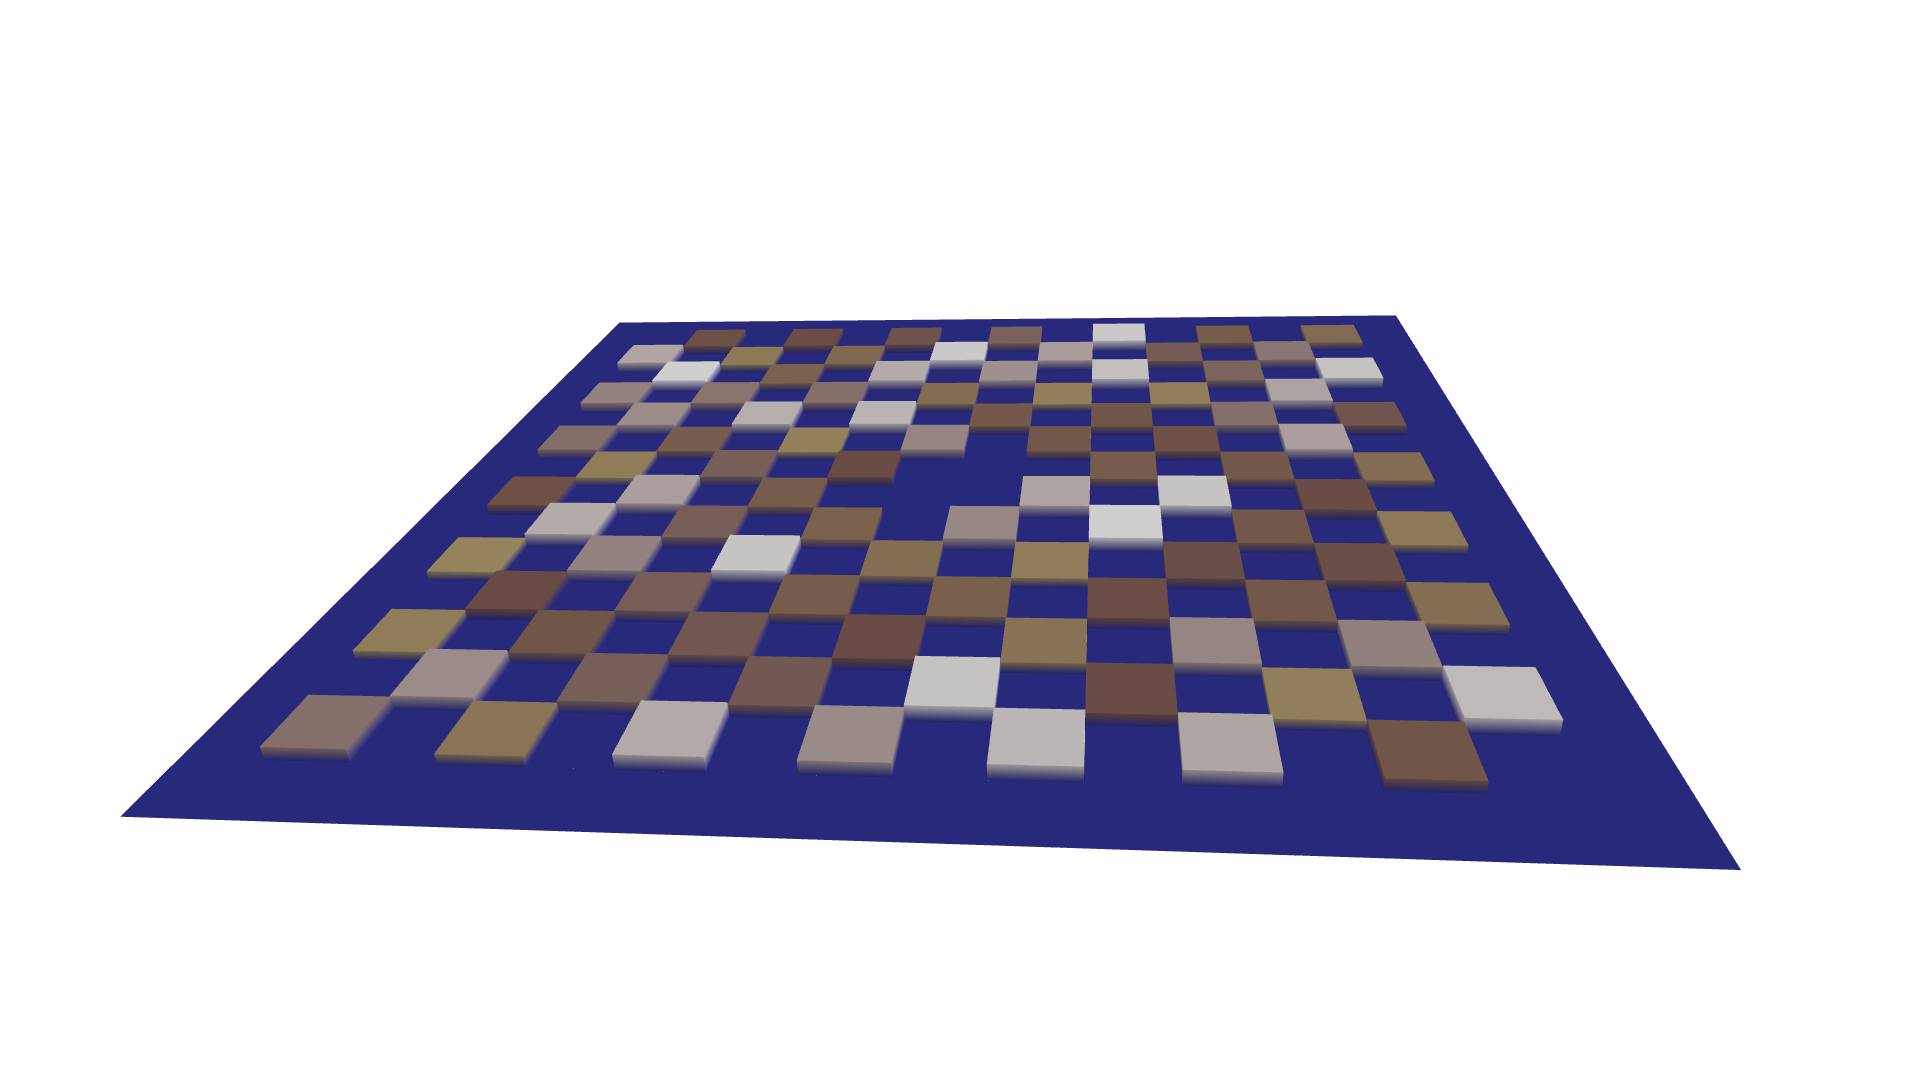
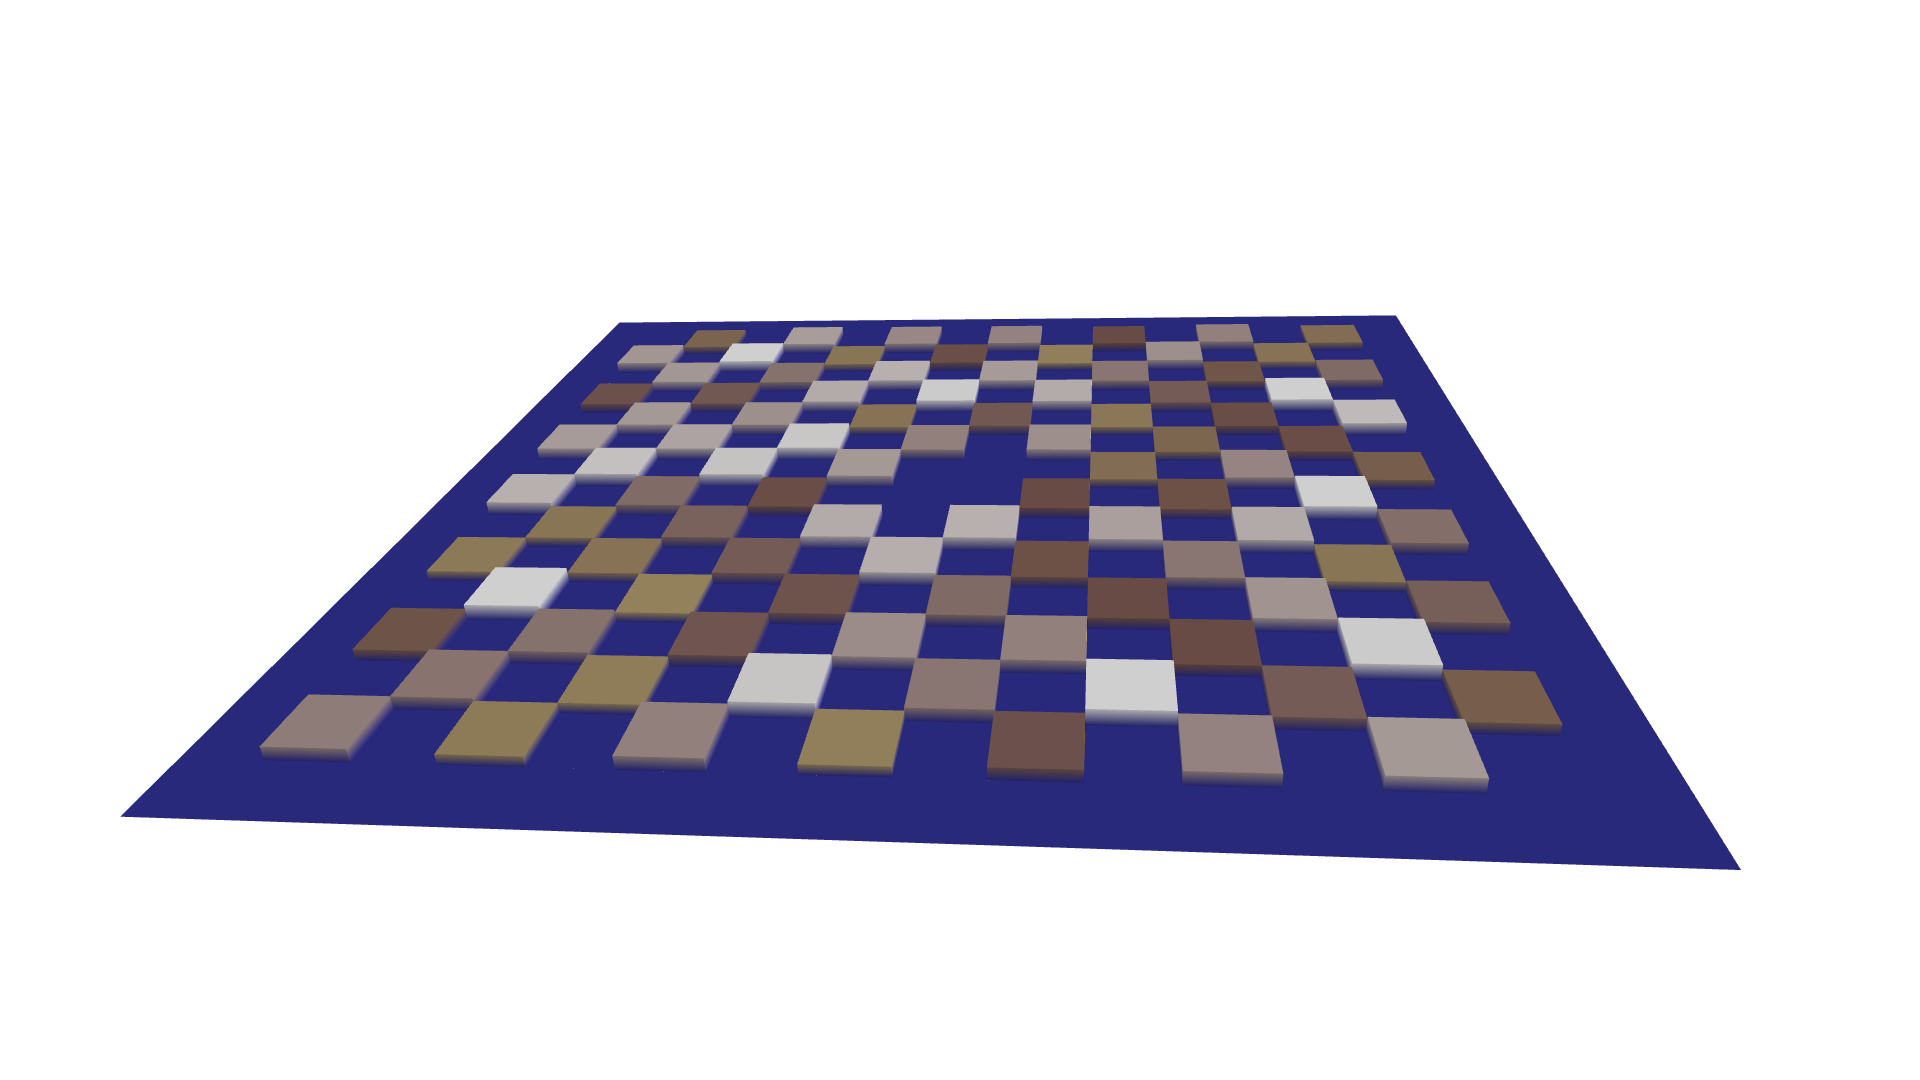
Add tilted squares terrain

Changed region(s): [[0.1875, 0.275, 0.8125, 0.7333]]

diff --git a/generators/utils.py b/generators/utils.py
@@ -170,6 +170,52 @@ def create_square_block(center, width=0.3, height=0.0, block_height=0.08, yaw=0)
     return create_block(center, width, width, height, block_height, yaw)
 
 
+def create_block_tilted_top(
+    center, length=1.0, width=0.3, height=0.0, block_height=0.08, yaw=0, noise=0.02
+):
+    """
+    Generate a block mesh centered at a given point with a given orientation.
+
+    Parameters:
+    - center (tuple/list of float): Center point (x, y) of the block.
+    - length (float): Size of the block along the first axis.
+    - width (float): Size of the block along the second axis.
+    - height (float): Base height of the block.
+    - block_height (float): Additional height for the top vertices of the block.
+    - yaw (float): Orientation in yaw.
+    - noise (float): Noise to disturb the top surface with.
+
+    Returns:
+    - trimesh.Trimesh: Mesh object representing the block.
+    """
+
+    mesh_top = create_plane(center, length, width, height + block_height)
+    mesh_side = create_wall(center, length, width, height, block_height)
+    mesh = trimesh.util.concatenate([mesh_top, mesh_side])
+
+    # Moving up and down the vertices of the top of the block to create the tilting
+    A = mesh.vertices[:, 2] == height + block_height  # Selecting the top vertices
+    B = mesh.vertices[:, 0] == (
+        center[0] + length / 2
+    )  # Selecting the vertices on positive X
+    C = mesh.vertices[:, 1] == (
+        center[1] + width / 2
+    )  # Selecting the vertices on positive Y
+    nXY = (2 * np.random.random(2) - 1) * noise  # Tilting magnitude along X and Y
+    mesh.vertices[A * B, 2] += nXY[0]
+    mesh.vertices[A * ~B, 2] -= nXY[0]
+    mesh.vertices[A * C, 2] += nXY[1]
+    mesh.vertices[A * ~C, 2] -= nXY[1]
+
+    if yaw != 0:
+        rot_matrix = trimesh.transformations.rotation_matrix(
+            yaw, [0, 0, 1], [center[0], center[1], 0]
+        )
+        mesh.apply_transform(rot_matrix)
+
+    return mesh
+
+
 def create_square_plane_with_hole(center, outer_size, inner_size, height):
     """
     Generate a square plane with a square hole.

diff --git a/generators/terrain_tilted_squares.py b/generators/terrain_tilted_squares.py
@@ -1,0 +1,69 @@
+import numpy as np
+import trimesh
+from .utils import (
+    create_square_plane,
+    create_square_plane_with_hole,
+    create_block_tilted_top,
+)
+
+
+def generate_tilted_squares_terrain(
+    terrain_size=8.0,
+    block_size=0.5,
+    block_height=0.08,
+    platform_size=1.0,
+    noise=0.04,
+):
+    """
+    Generate a mesh for a pyramid stairs terrain.
+
+    Parameters:
+    - terrain_size (float): Size of the terrain.
+    - block_size (float): Size of the checker blocks.
+    - block_height (float): Height of the checker blocks.
+    - platform_size (float): Size of the central platform.
+    - noise (float): Random noise applied to the block heights.
+
+    Returns:
+    - trimesh.Trimesh: Mesh object representing the checkers terrain.
+    """
+
+    N = int(terrain_size / block_size)
+    center = [terrain_size / 2, terrain_size / 2]
+
+    # Flat border area around the checkers
+    border_mesh = create_square_plane_with_hole(
+        center, terrain_size, terrain_size - 2 * block_size, 0.0
+    )
+
+    tilted_meshes = []
+    for i in range(1, N - 1):
+        x = (i + 0.5) * block_size
+        for j in range(1, N - 1):
+            y = (j + 0.5) * block_size
+            if np.all(np.abs(np.array([x, y]) - np.array(center)) < platform_size / 2):
+                tilted_meshes.append(create_square_plane([x, y], block_size, 0.0))
+
+            else:
+                tilted_meshes.append(
+                    create_block_tilted_top(
+                        [x, y], block_size, block_size, 0.0, block_height, 0.0, noise
+                    )
+                )
+
+    tilted_meshes.append(border_mesh)
+    return trimesh.util.concatenate(tilted_meshes)
+
+
+if __name__ == "__main__":
+    # Usage:
+    mesh = generate_tilted_squares_terrain()
+
+    # Display mesh with colormap along the Z axis
+    mesh.visual.vertex_colors = trimesh.visual.interpolate(
+        mesh.vertices[:, 2], color_map="viridis"
+    )
+    trimesh.Scene(mesh).show()
+
+    # Export mesh as .obj file
+    # mesh.export(file_obj='terrain.obj', file_type='obj')

diff --git a/generators/terrain_generators.py b/generators/terrain_generators.py
@@ -3,6 +3,7 @@ from generators.terrain_stairs import generate_pyramid_stairs_terrain
 from generators.terrain_blocks import generate_block_terrain
 from generators.terrain_slope import generate_slope_terrain
 from generators.terrain_checkers import generate_checkers_terrain
+from generators.terrain_tilted_squares import generate_tilted_squares_terrain
 import numpy as np
 import trimesh
 
@@ -238,6 +239,37 @@ def checkers(difficulty):
         info["block_height"] * difficulty,
         info["platform_size"],
         info["noise"],
+    )
+
+    return mesh, info
+
+
+def tilted_squares(difficulty):
+    """
+    Generates a 3D terrain mesh with a filed a square blocks with tilted top.
+
+    Parameters:
+    - difficulty (float): Difficulty scaling between 0 (easiest) and 1 (hardest).
+
+    Returns:
+    - A trimesh.Trimesh object representing the generated terrain mesh.
+    - A dict containing the parameters of the terrain generator.
+    """
+
+    info = {}
+    info["name"] = "tilted_squares"
+    info["terrain_size"] = 8.0
+    info["block_size"] = 0.5
+    info["block_height"] = 0.08
+    info["platform_size"] = 1.0
+    info["noise"] = 0.04
+
+    mesh = generate_tilted_squares_terrain(
+        info["terrain_size"],
+        info["block_size"],
+        info["block_height"] * difficulty,
+        info["platform_size"],
+        info["noise"] * difficulty,
     )
 
     return mesh, info

diff --git a/generate_preview_images.py b/generate_preview_images.py
@@ -7,6 +7,7 @@ from generators.terrain_stairs import generate_pyramid_stairs_terrain
 from generators.terrain_blocks import generate_block_terrain
 from generators.terrain_slope import generate_slope_terrain
 from generators.terrain_checkers import generate_checkers_terrain
+from generators.terrain_tilted_squares import generate_tilted_squares_terrain
 
 print("-- Generating meshes --")
 meshs = []
@@ -16,6 +17,7 @@ meshs.append(generate_pyramid_stairs_terrain(going_up=True))
 meshs.append(generate_block_terrain())
 meshs.append(generate_slope_terrain())
 meshs.append(generate_checkers_terrain())
+meshs.append(generate_tilted_squares_terrain())
 
 print("-- Generating images and heightmaps --")
 for i, mesh in enumerate(tqdm(meshs)):

diff --git a/README.md b/README.md
@@ -35,3 +35,7 @@ The terrains are constrained to be at altitude 0 near the edges, and have a cent
   <img src="images/terrain6_3d.png" width=49% />
   <img src="images/terrain6_heightmap.png" width=49% />
 </p>
+<p float="middle">
+  <img src="images/terrain7_3d.png" width=49% />
+  <img src="images/terrain7_heightmap.png" width=49% />
+</p>
